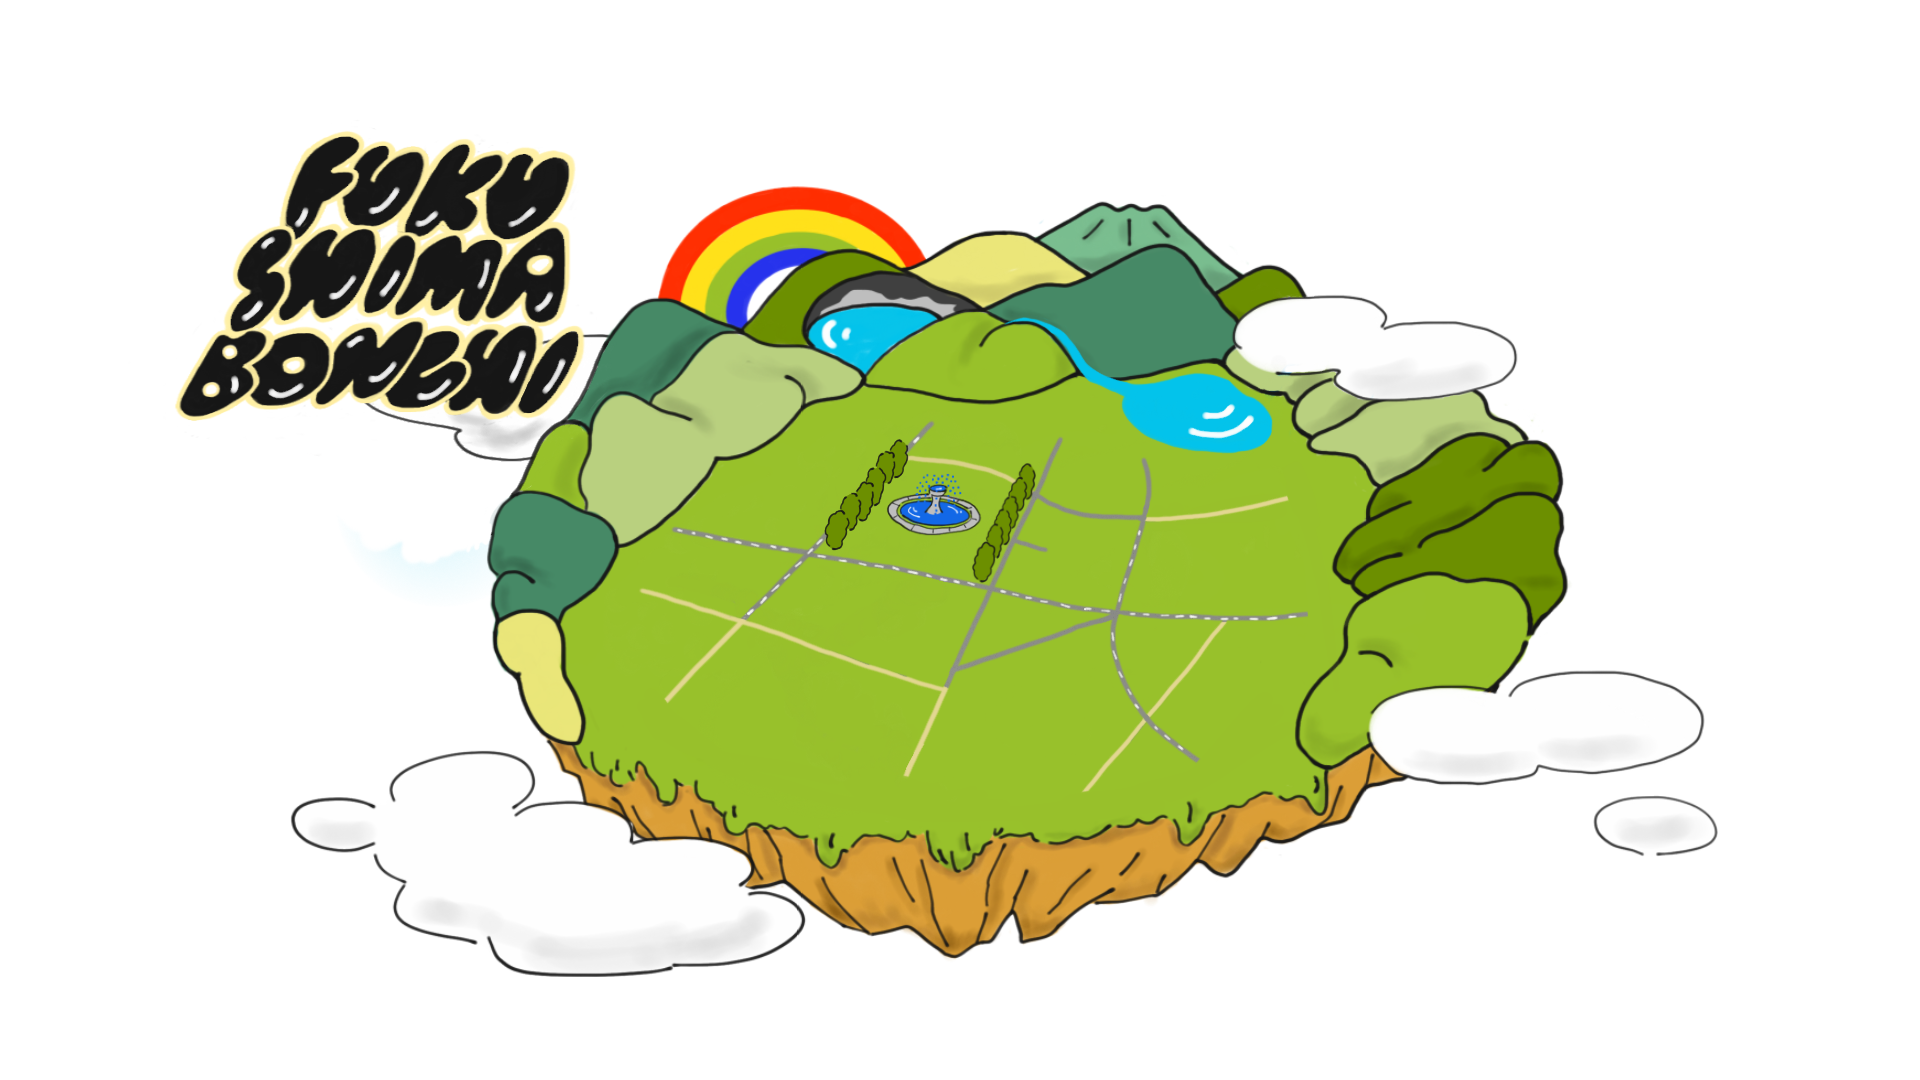
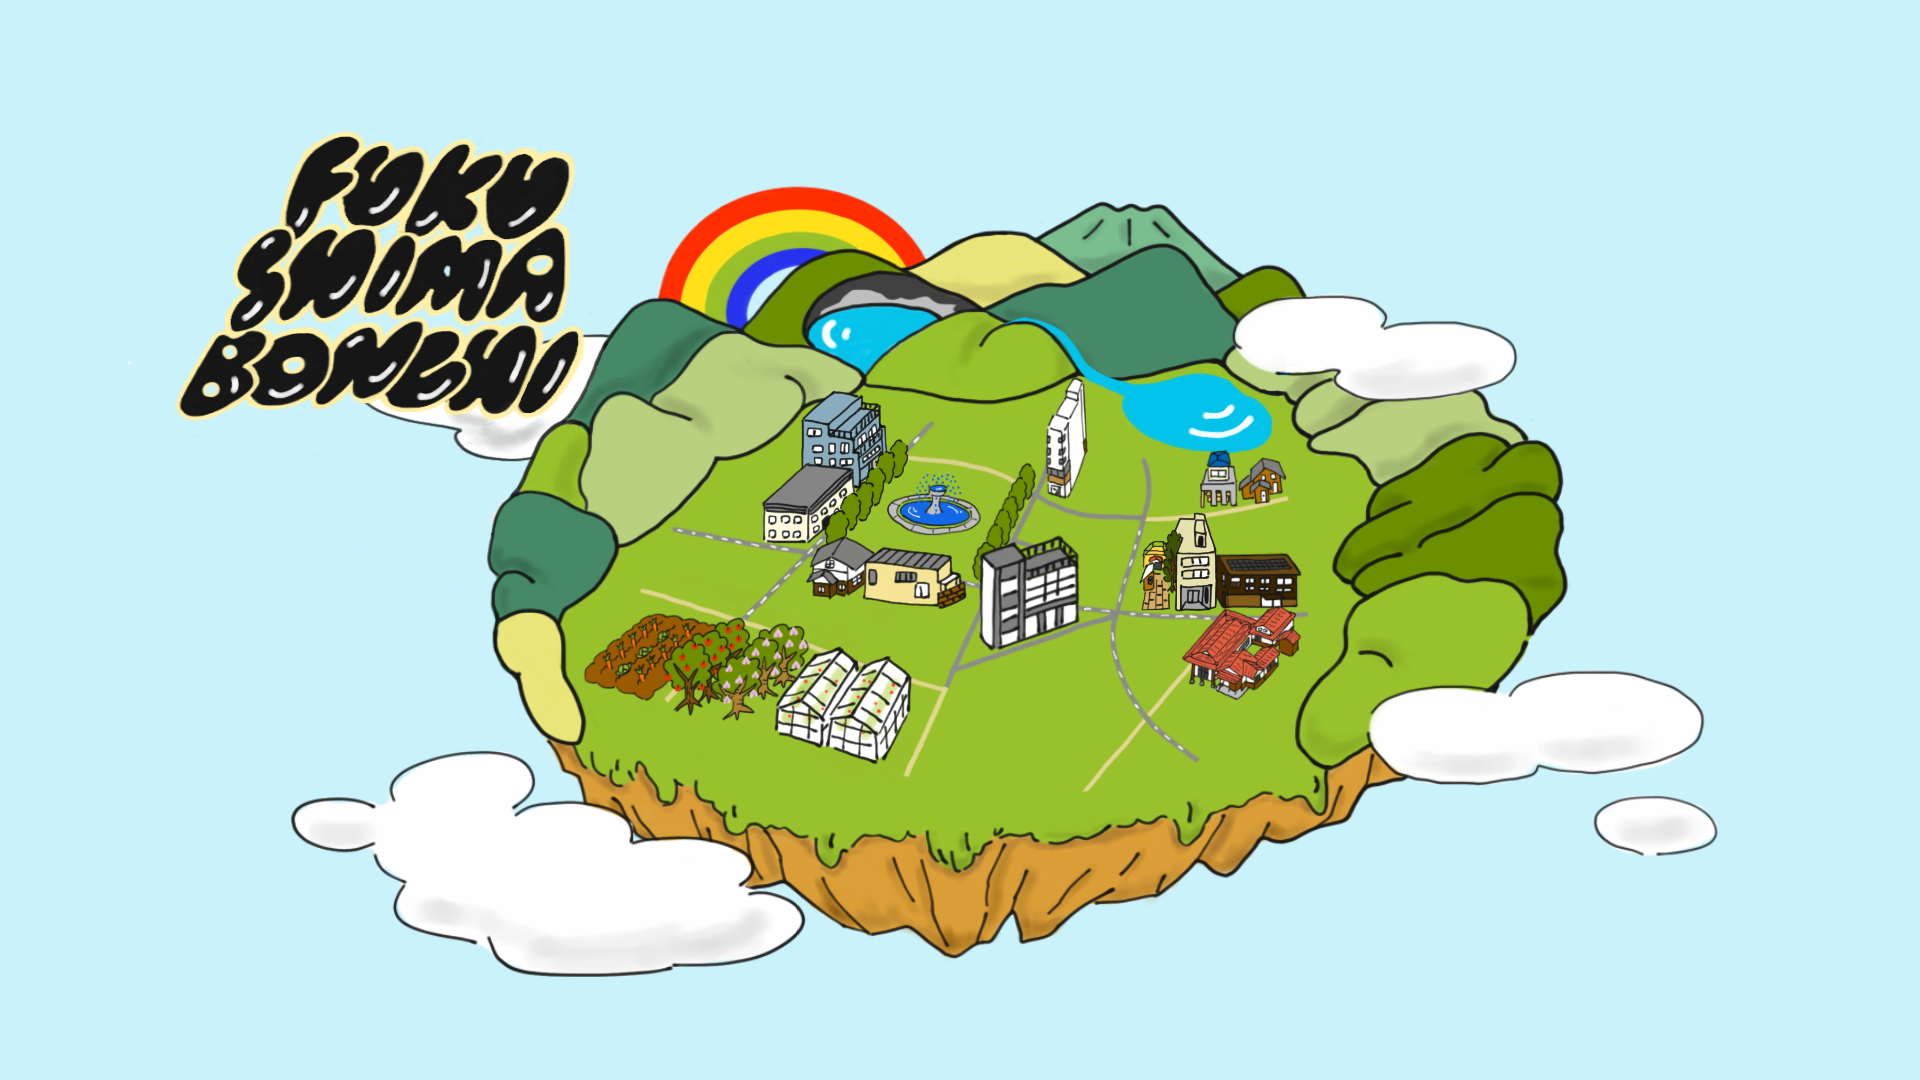
entranceの画像を差し替え

diff --git a/app/src/components/fukushimaBonchi/index.tsx b/app/src/components/fukushimaBonchi/index.tsx
@@ -19,7 +19,7 @@ const useStyles = makeStyles((theme: Theme) =>
       minHeight: "100vh",
       backgroundAttachment: "scroll",
       backgroundSize: "contain",
-      backgroundImage: "url(../image/fukushimabonchi/world_map.png)",
+      backgroundImage: "url(../image/fukushimabonchi/world_map_base.png)",
       backgroundPosition: "center center",
       backgroundRepeat: "no-repeat",
       position: "relative",
